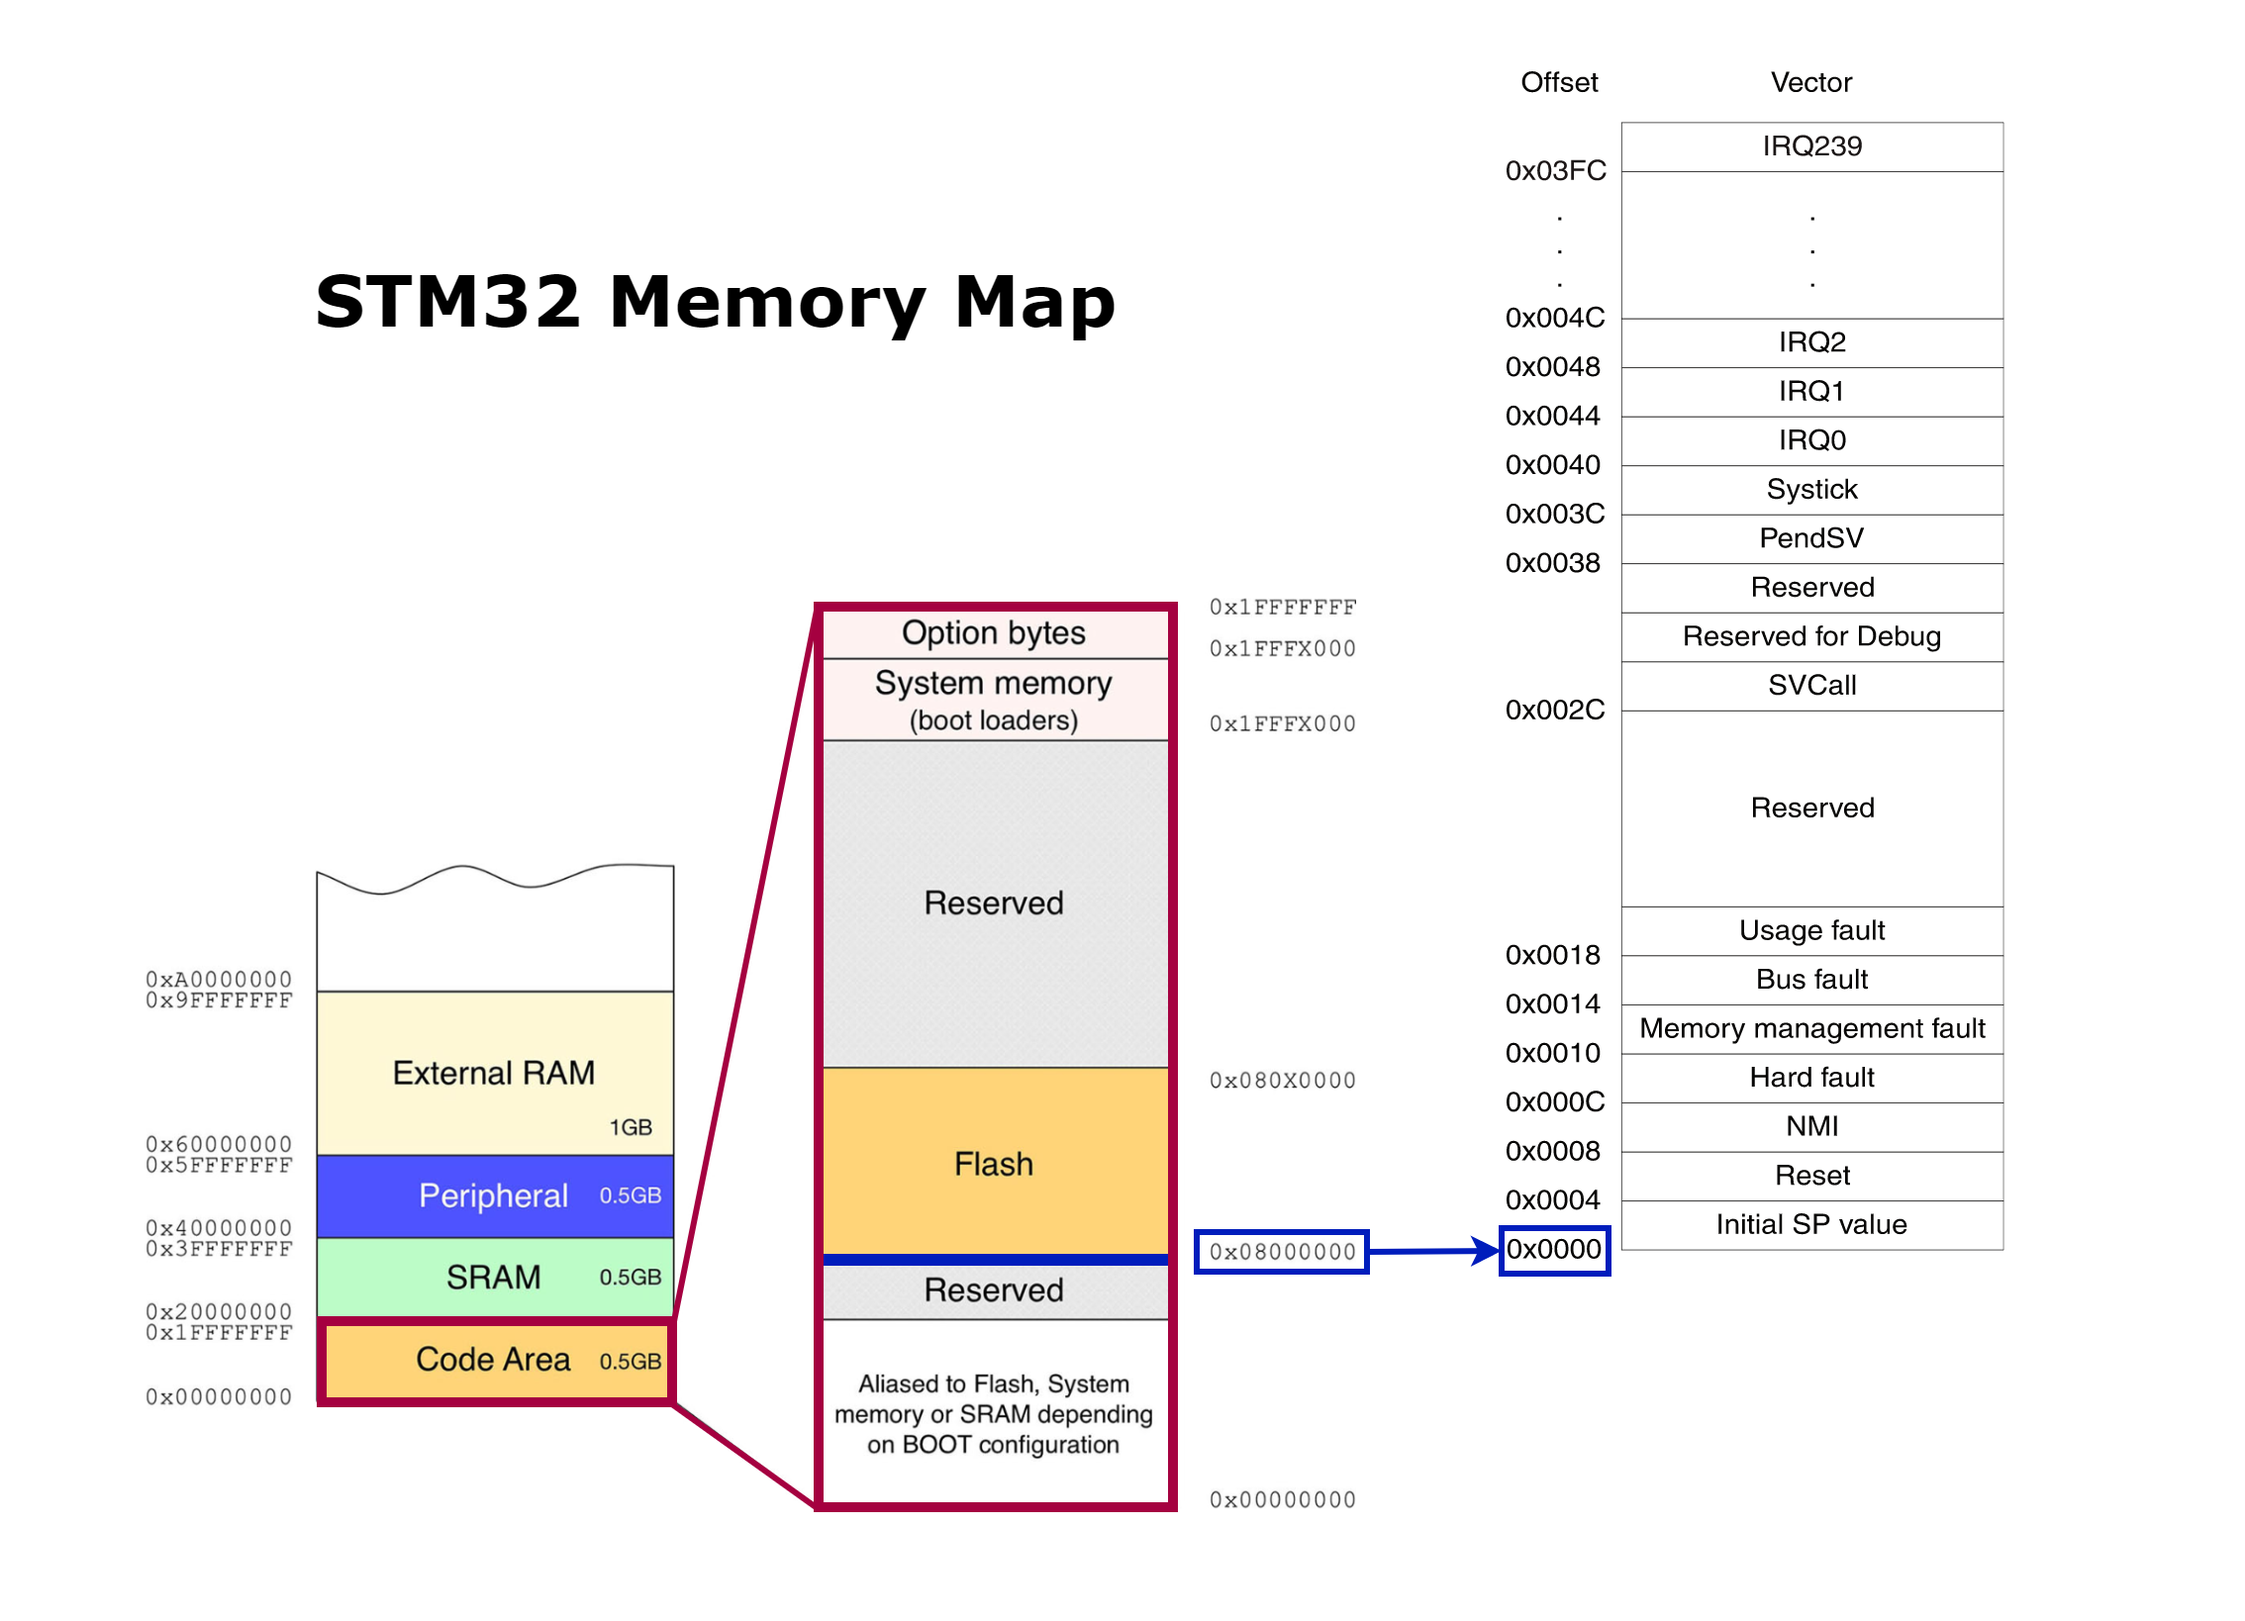
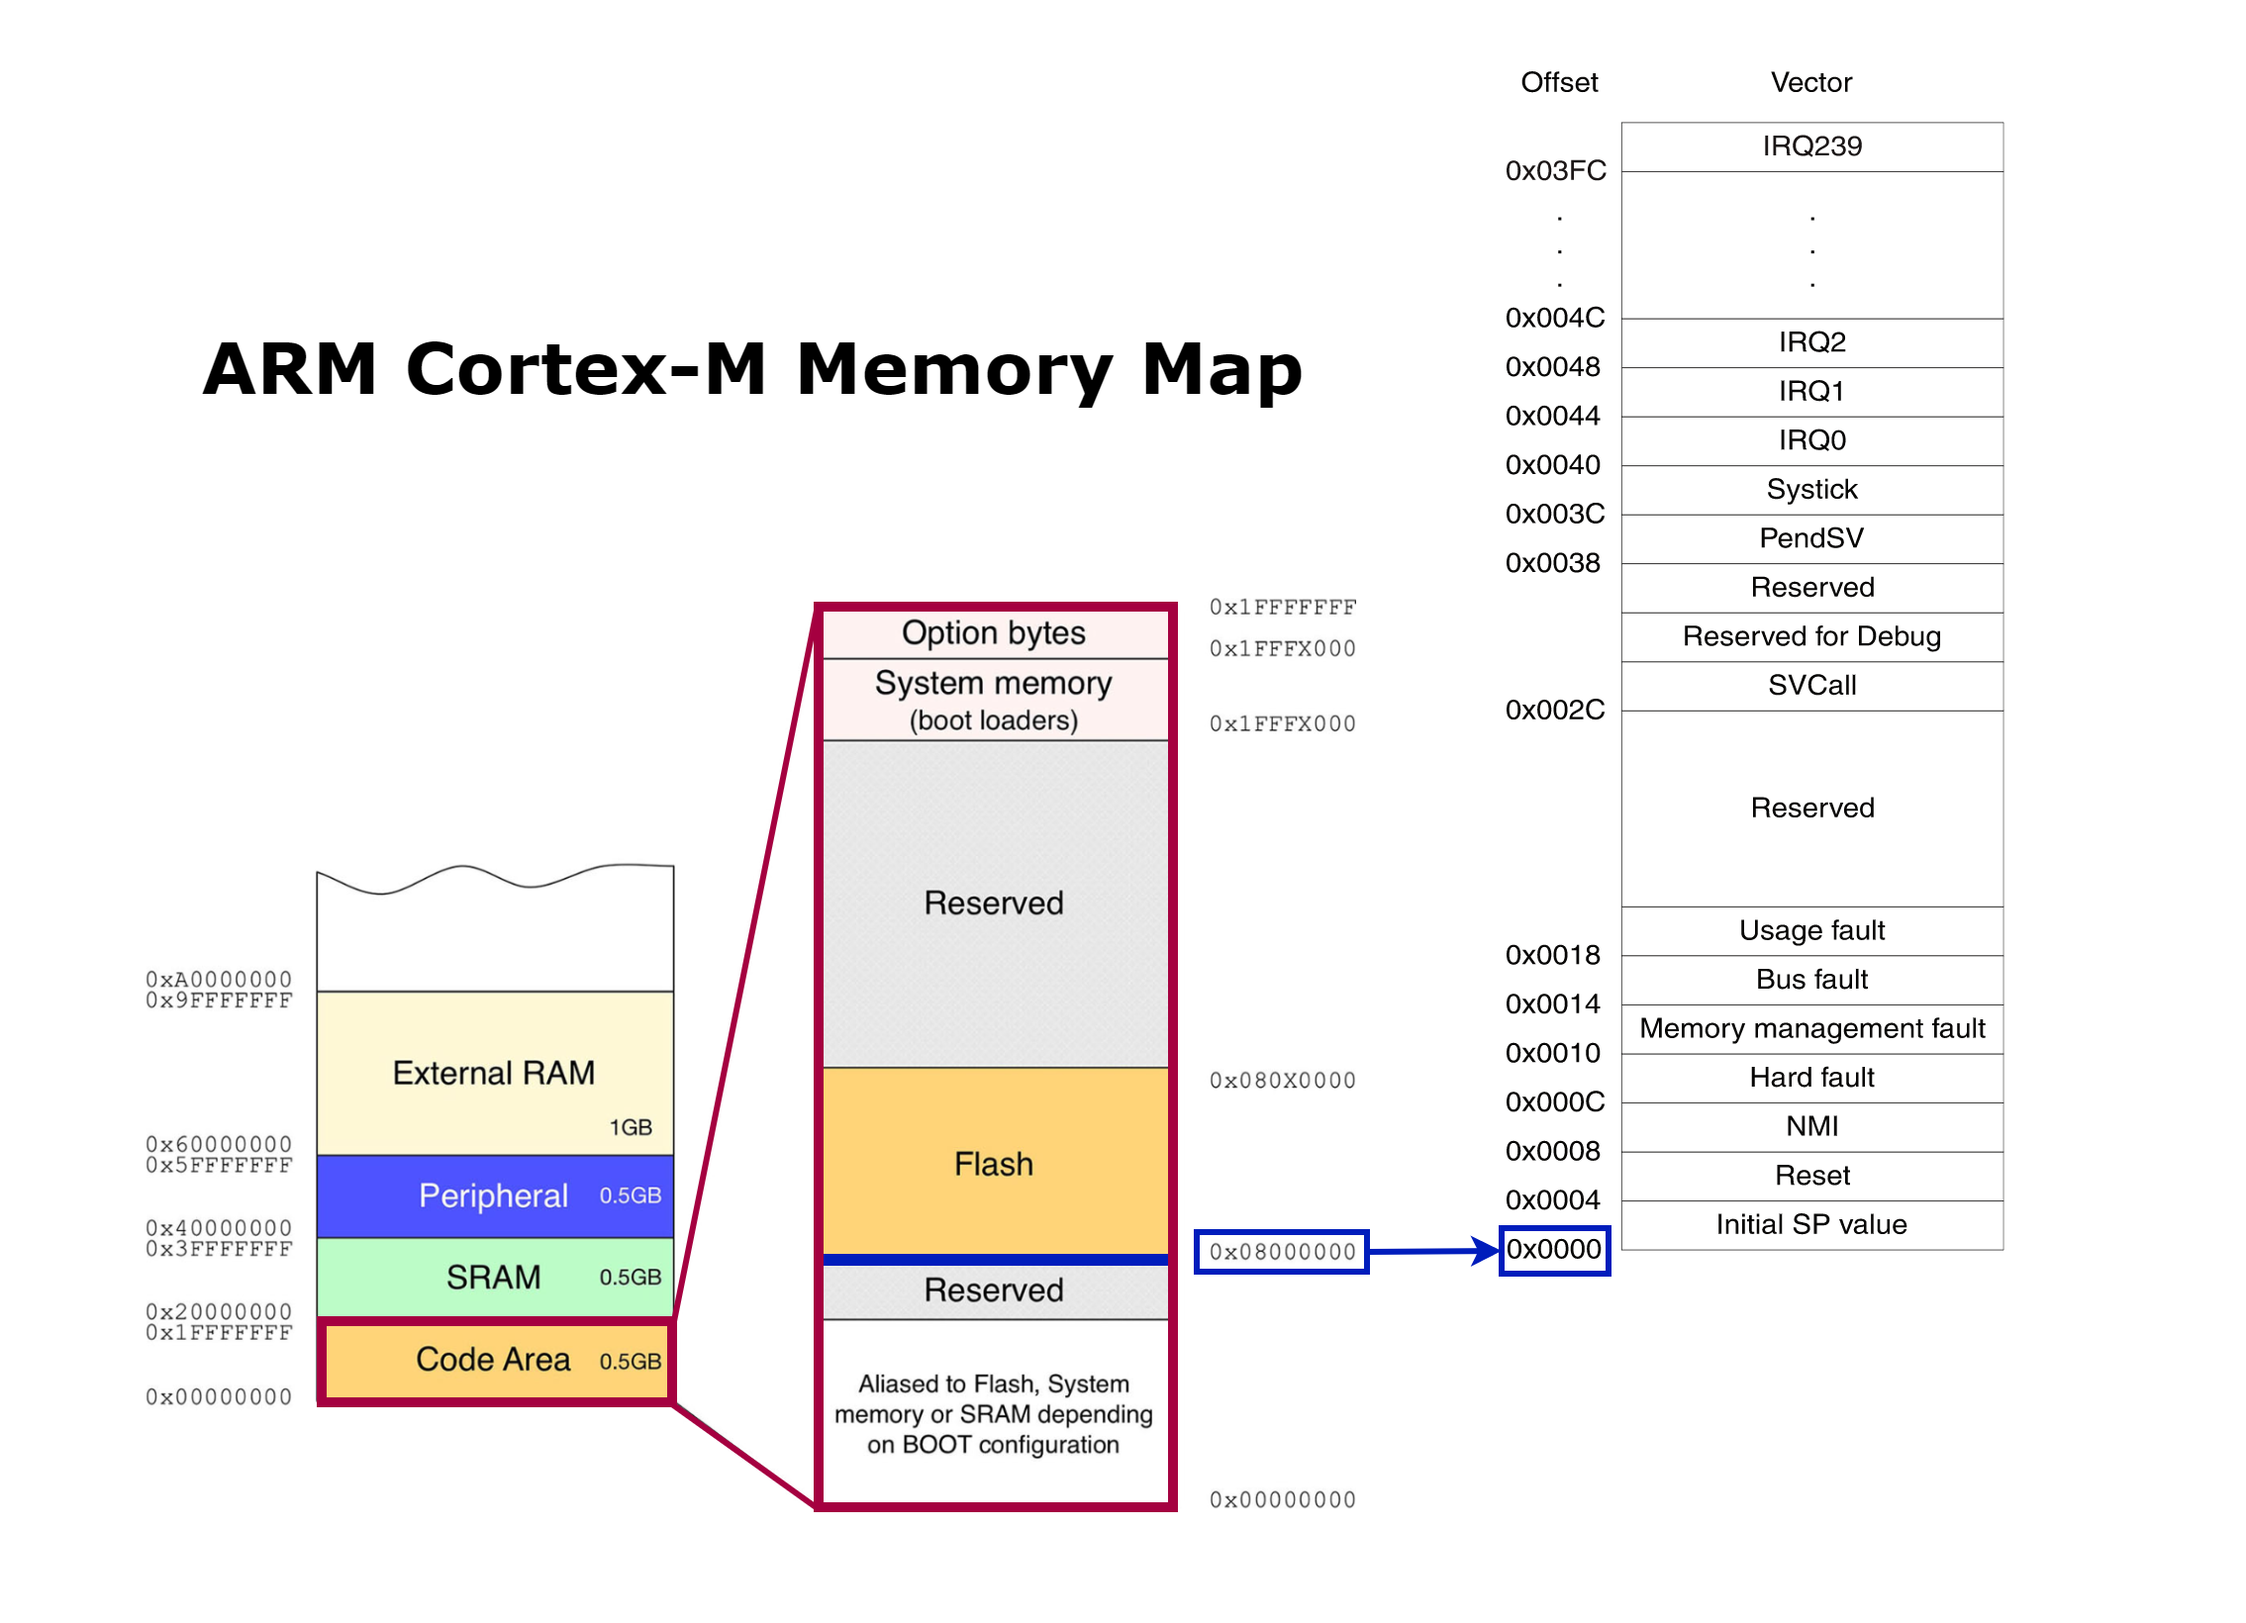
Update Embedded C Documentation

diff --git a/Unit_3_Embedded_C/README.md b/Unit_3_Embedded_C/README.md
@@ -7,6 +7,11 @@
 * `arm-none-eabi-readelf` : Display information about ELF files
 * `arm-none-eabi-nm`      : List symbols from object files
 
+* **Note :**
+    * `arm` : Architecture
+    * `none` : No OS
+    * `eabi` : Embedded Application Binary Interface
+
 ## Compiler Flags
 
 |Flag|Meaning|
@@ -49,6 +54,22 @@
 * **ELF** : Executable and Linkable Format
   * ELF is a standard file format for object files and executable files in GCC
 * A file format standard describes a way of organizing various elements (data, read-only data, code, uninitialized data,etc.) of a program in different sections.
+
+* **ELF provides two interfaces to binary files :**
+    * a **linkable interface** that is used at static link time to combine multiple files when
+compiling and building a program.
+    * an **executable interface** that is utilized at runtime to create a process image in
+memory when a program is loaded into memory and then executed.
+
+* **The executable interface provides two separate logic views :** 
+    * the **load view** classifies the input sections into two regions: read-write section and read-only section.
+        * The load view also defines the base memory address of these regions so that the processor knows where it should load them into the memory.
+    * The **execution view** informs the processor how to load the executable at runtime. A binary machine program includes four critical sections, including:
+        * a *text segment* that consists of binary machine instructions,
+        * a *read-only data segment* that defines the value of variables unalterable at runtime.
+        * a *read-write data segment* that sets the initial values of statically allocated and modifiable variables
+        * a *zero-initialized data segment* that holds all uninitialized variables declared in the program.
+
 
 <div style="border-radius: 30px; overflow: hidden;">
     <p align="center">
@@ -161,16 +182,22 @@ void main(void)
   * When specified, alignment must be an integer constant power of 2.
   * Specifying no alignment argument implies the ideal alignment for the target.
 
-### Vector Table (STM32 Case Study)
+### Vector Table (ARM Cortex-M Case Study)
 * The vector table is a section of our flash memory that mostly holds the addresses of various handlers.
-* Starting address of the reset handler (Reset handler is the code executed on reset)
-* Starting addresses of all other exceptions and interrupts including the NMI handler, Hard fault handler and so on.
+    * Starting address of the **reset handler** (Reset handler is the code executed on reset)
+    * Starting addresses of all other exceptions and interrupts including the NMI handler, Hard fault handler and so on.
 
 <p align="center">
   <img src="Images/STM32MemMap.png"
        width="100%" 
        style="border-radius: 30px;"/>
 </p>
+
+* Memory map of the 4GB memory space in a Cortex-M3 microprocessor, Within this 4GB linear memory space, the address range of instruction memory, data memory, internal and external peripheral devices, and external RAM has no overlap with each other.
+    * The on-chip flash memory, used for the instruction memory, has 4 KB, and its address starts at `0x08000000`.
+    * The on-chip SRAM, used for the data memory, has 256 KB, and its memory address begins at `0x20000000`.
+    * The external RAM allows the processor to expand the data memory capacity.
+
 
 * On many STM32 families, the boot address in the internal flash is `0x0800_0000`.
   *  This address is remapped to address `0x0000_0000` by boot mode mechanism. 
@@ -186,6 +213,12 @@ void main(void)
   * Take the initial value of the Main stack pointer from the address `0x0000` (`0x0800_0000`) so we store in this location the SRAM address
   * Take the value of the program counter from the address `0x0004` (Reset_Handler).
   * Continue execution from the address corresponding to this value. 
+
+<p align="center">
+  <img src="Images/TCMMapping.png"
+       width="85%" 
+       style="border-radius: 30px;"/>
+</p>
 
 ```ARM
 .section .vectors
@@ -291,6 +324,7 @@ void Reset_Handler(void)
        width="100%" 
        style="border-radius: 30px;"/>
 </p>
+
 
 ## Initialize Memory
 
